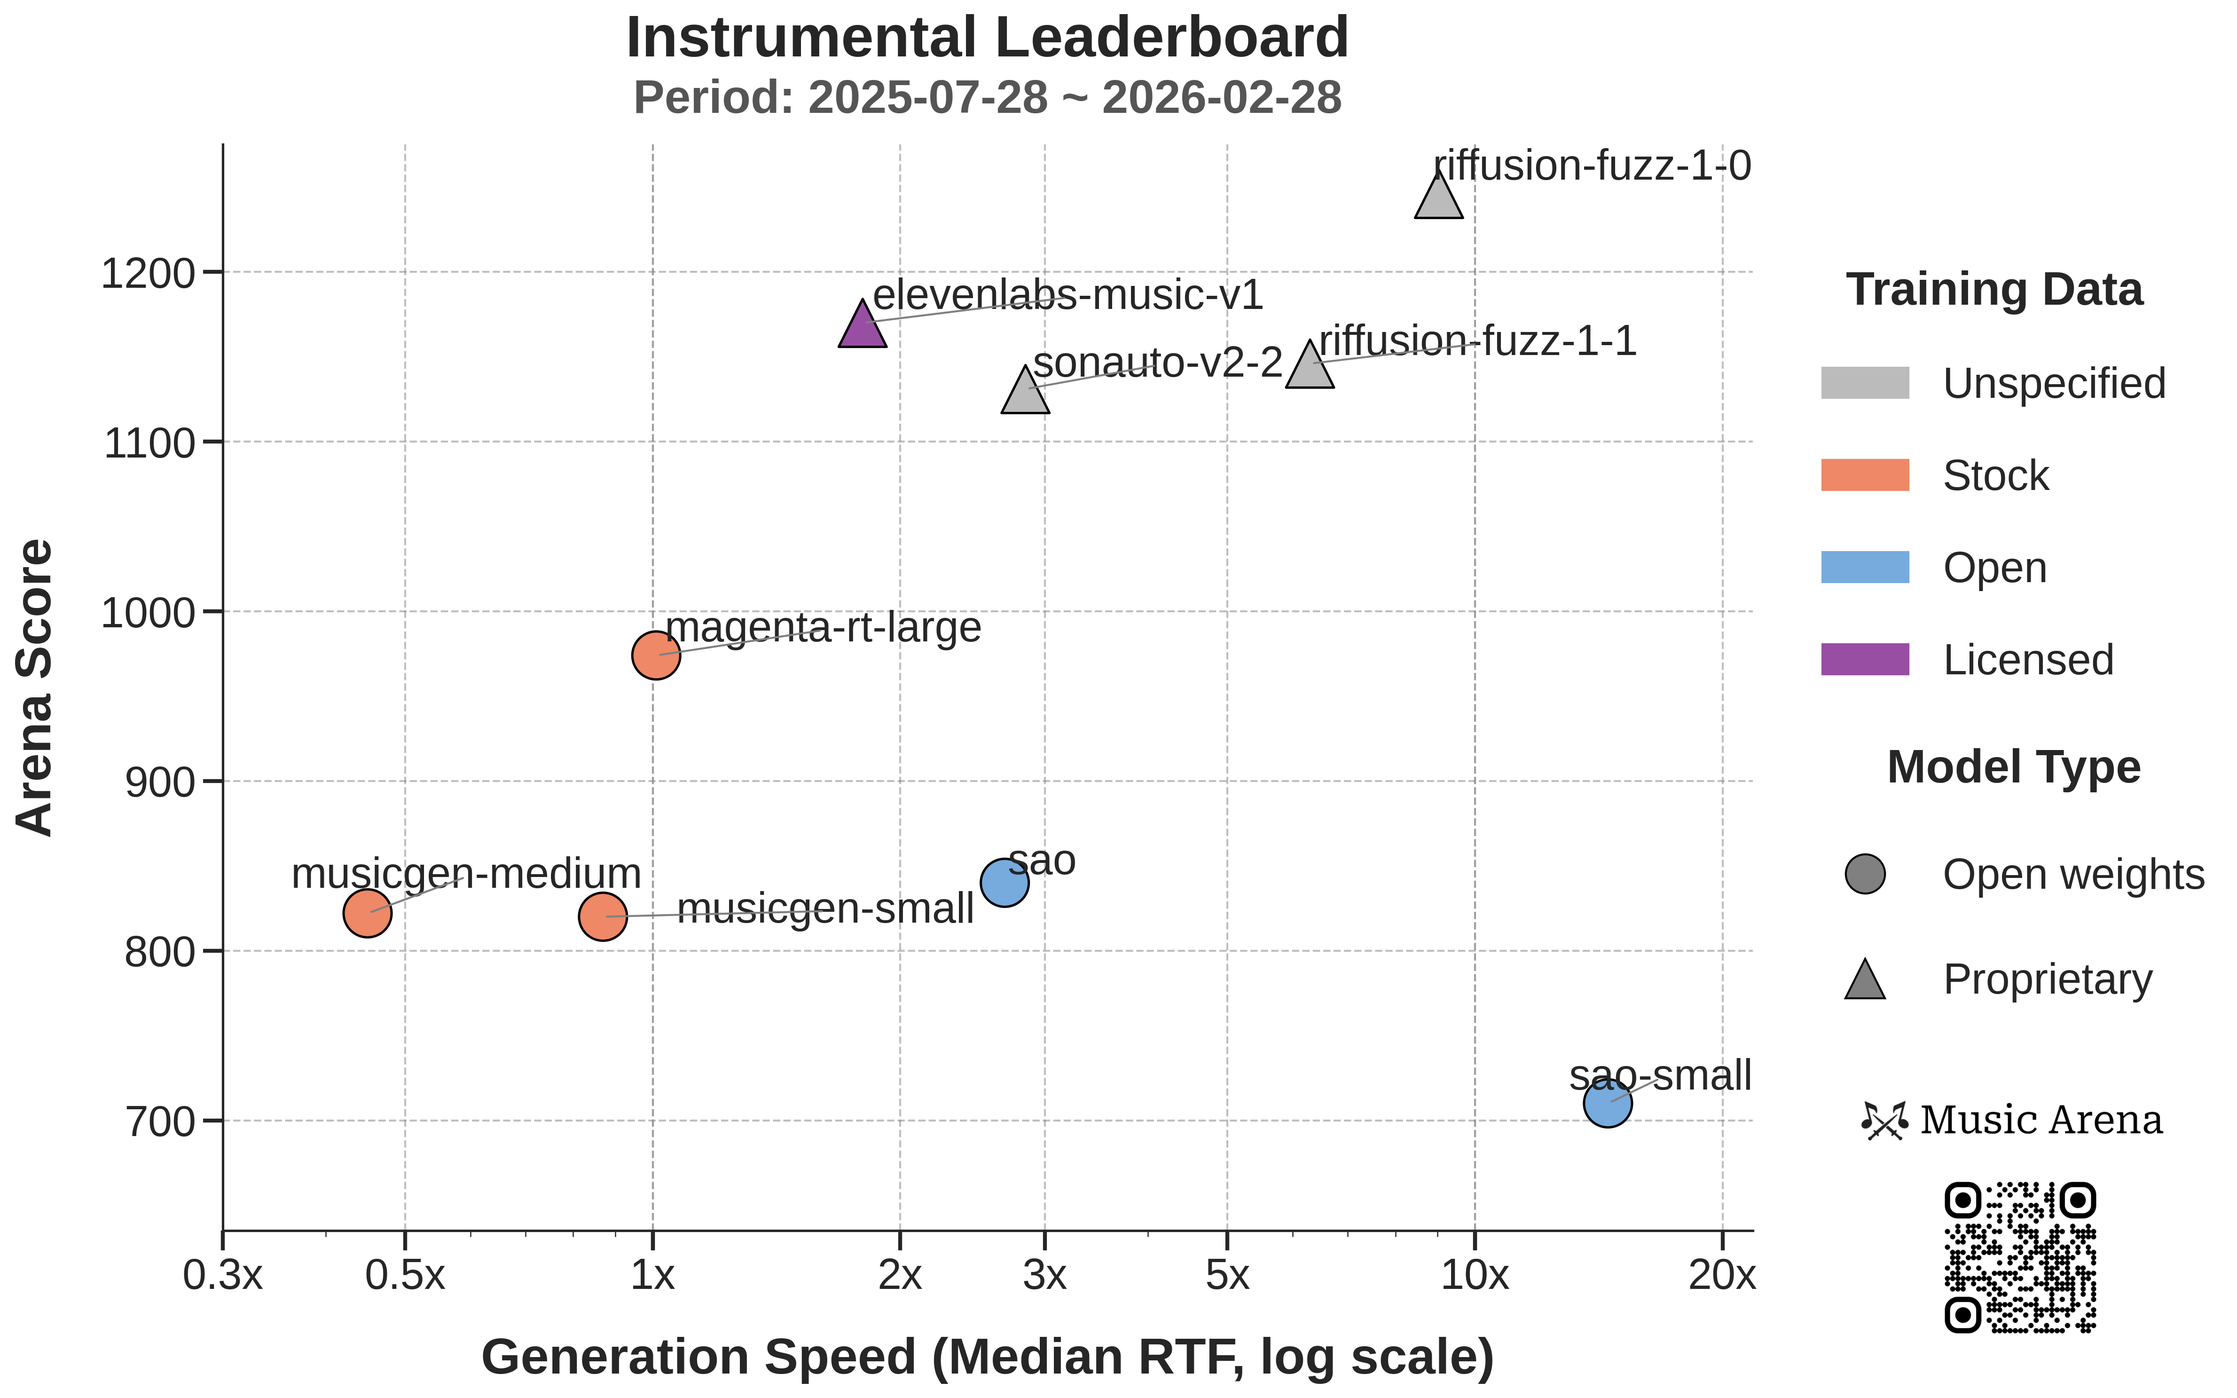
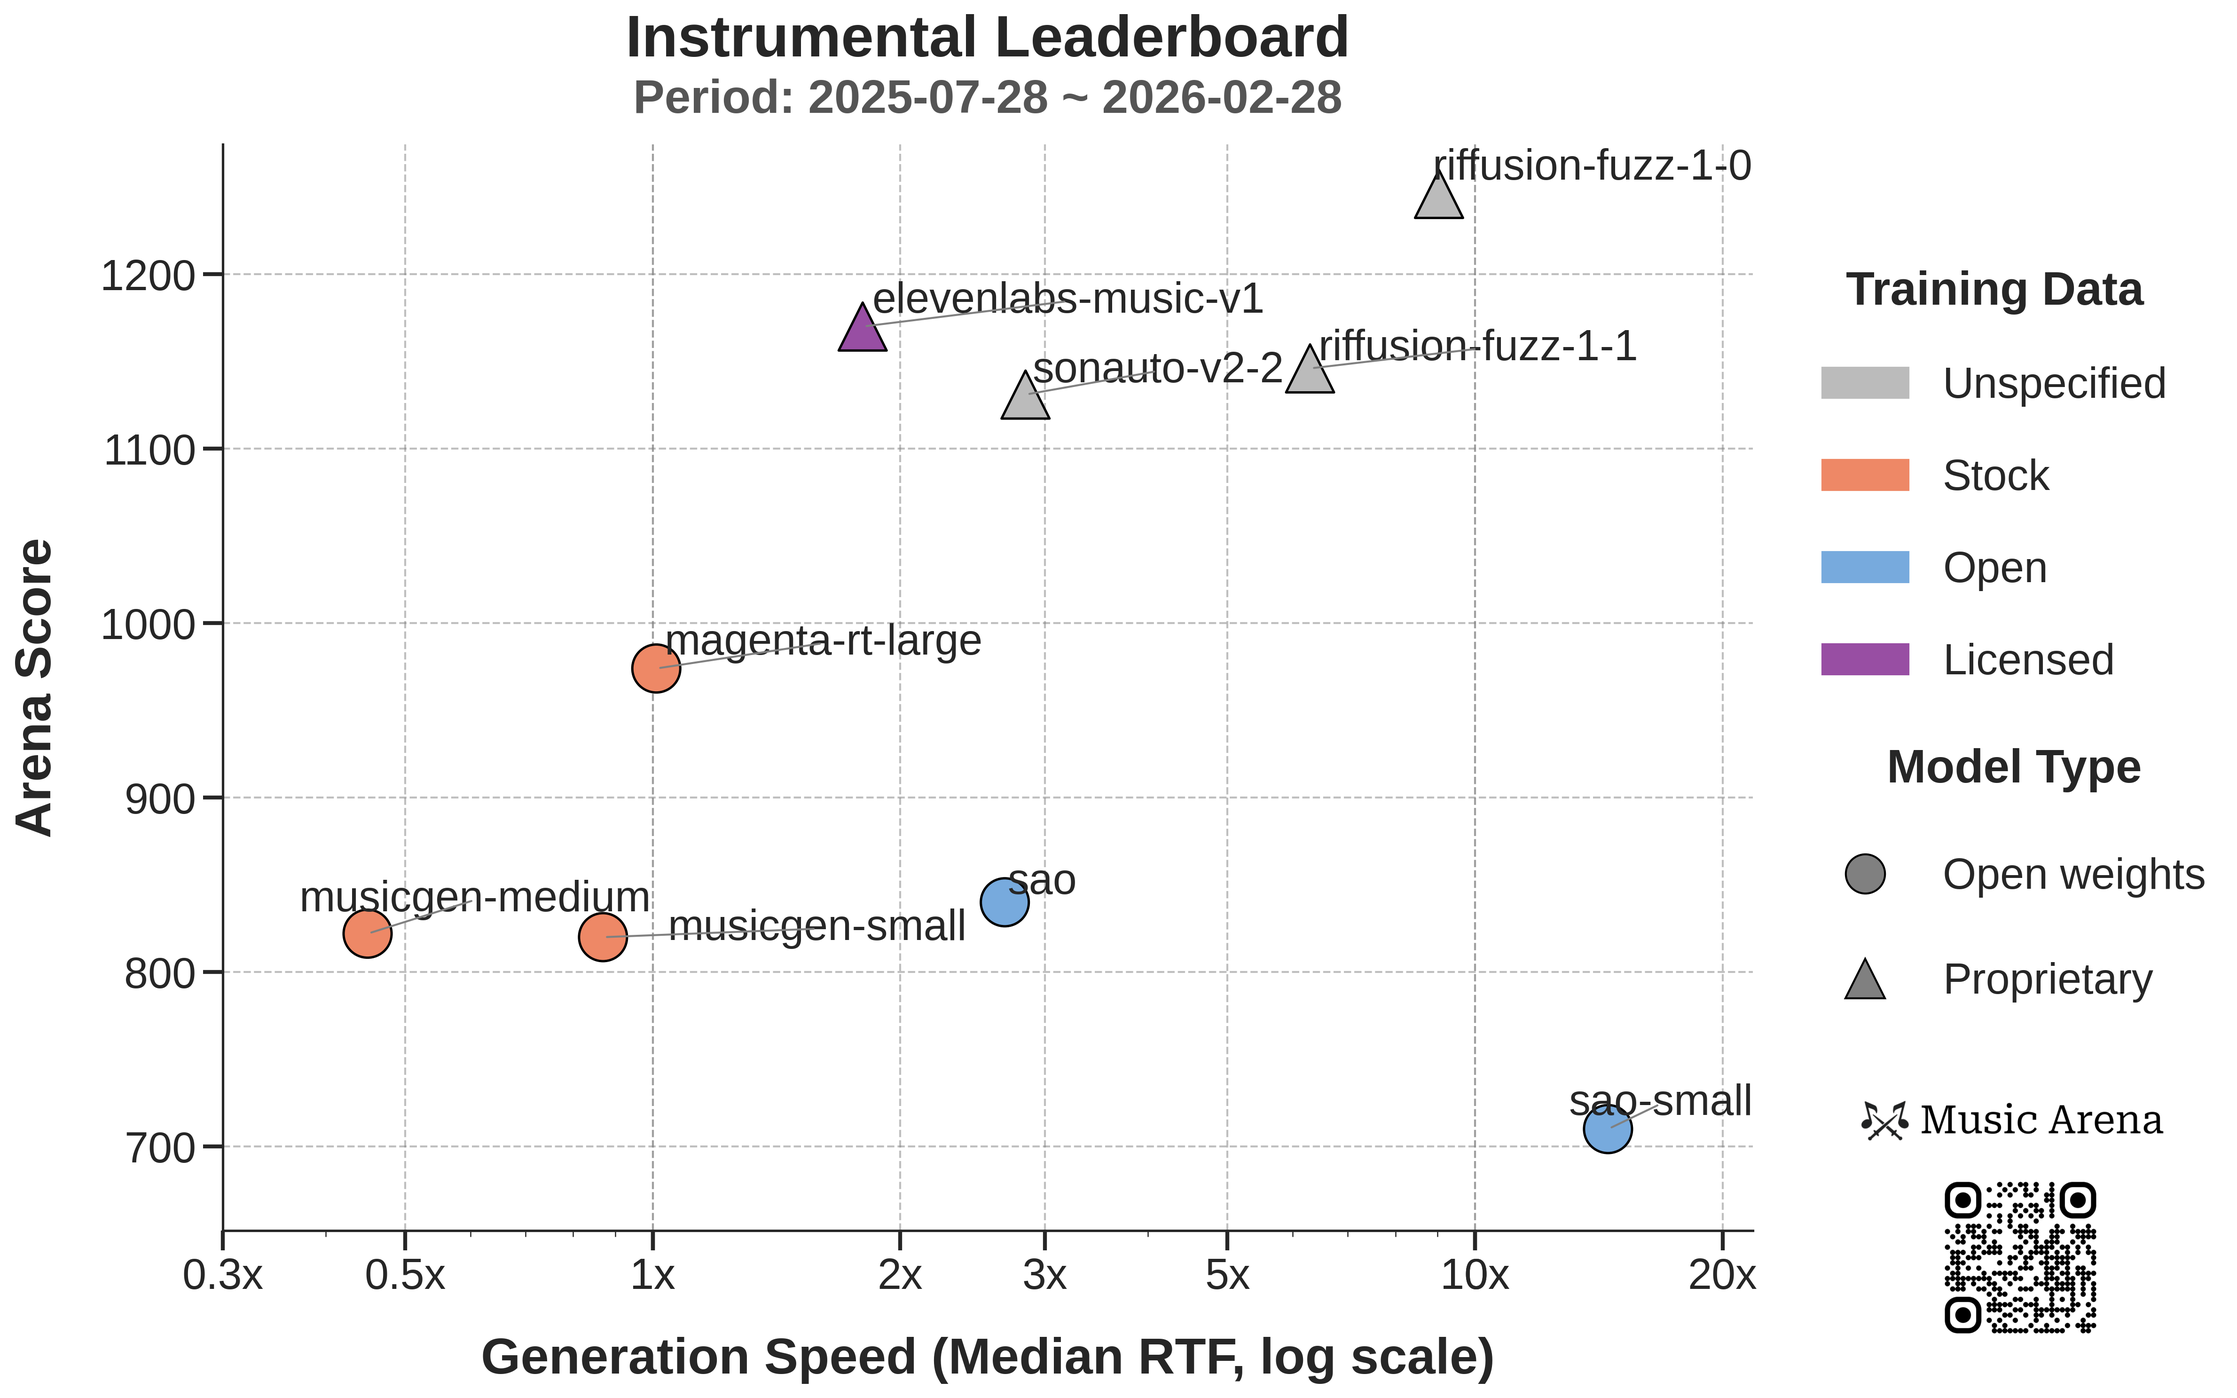
Address PR #77 feedback
- Move leaderboard pipeline docs to components/leaderboard/README.md
- Remove cross-dependency in frontend constants (hardcode methodology text)
- Exclude hidden models from leaderboard
- Remove _ADDITIONAL_MODELS (lyria-3-30s, sonauto-v3-preview now in registry)
- Regenerate leaderboard and plots

diff --git a/components/leaderboard/ma_leaderboard/config.py b/components/leaderboard/ma_leaderboard/config.py
@@ -38,9 +38,9 @@ HARDWARE_RTF_RATIOS = {
 # Model Metadata — loaded from systems/registry.yaml
 # =============================================================================
 
-# Models to exclude from leaderboard (test/utility/debug systems)
-# These are registered in registry.yaml but never ran in the arena,
-# or were only used briefly for debugging.
+# Models to exclude from leaderboard:
+# - test/utility systems that were never deployed
+# - older private testing models that should not be shown publicly
 _EXCLUDED_MODELS = {
     "noise",           # test system
     "audioldm2",       # registered but never deployed
@@ -49,6 +49,8 @@ _EXCLUDED_MODELS = {
     "songgen",         # registered but never deployed
     "musicgen-large",  # registered but never deployed
     "magenta-rt-base", # registered but never deployed
+    "preview-ocelot",  # private testing model
+    "preview-jerboa",  # private testing model
 }
 
 _ACCESS_MAP = {"OPEN": "Open weights", "PROPRIETARY": "Proprietary"}
@@ -56,7 +58,7 @@ _ACCESS_MAP = {"OPEN": "Open weights", "PROPRIETARY": "Proprietary"}
 _TRAINING_DATA_MAP = {
     "Stock": "Stock",
     "Creative Commons": "Open",
-    "Licensed Stock": "Licensed",
+    "Licensed": "Licensed",
     "Commercial": "Commercial",
 }
 
@@ -109,33 +111,4 @@ def _load_models_from_registry():
     return models
 
 
-# Models that exist in battle data but not in registry.yaml
-# (e.g., preview models, recently added models not yet in registry)
-_ADDITIONAL_MODELS = {
-    "preview-ocelot": {
-        "organization": "Hidden",
-        "training_data": "Unspecified",
-        "supports_lyrics": True,
-        "access": "Proprietary",
-    },
-    "preview-jerboa": {
-        "organization": "Hidden",
-        "training_data": "Unspecified",
-        "supports_lyrics": True,
-        "access": "Proprietary",
-    },
-    "lyria-3-30s": {
-        "organization": "Google DeepMind",
-        "training_data": "Unspecified",
-        "supports_lyrics": True,
-        "access": "Proprietary",
-    },
-    "sonauto-v3-preview": {
-        "organization": "Sonauto",
-        "training_data": "Unspecified",
-        "supports_lyrics": True,
-        "access": "Proprietary",
-    },
-}
-
-MODELS_METADATA = {**_load_models_from_registry(), **_ADDITIONAL_MODELS}
+MODELS_METADATA = _load_models_from_registry()

diff --git a/components/frontend/ma_frontend/constants.py b/components/frontend/ma_frontend/constants.py
@@ -215,29 +215,15 @@ The leaderboard is generated periodically from user votes. The data shown here i
 To ensure statistical reliability, only models with **30 or more votes** are included in the leaderboard. Models with fewer votes are excluded as their scores and confidence intervals are not yet stable.
 """.strip()
 
-def _build_methodology_md():
-    try:
-        from ma_leaderboard.config import HARDWARE_RTF_RATIOS, REFERENCE_HARDWARE
-        non_ref = {k: v for k, v in HARDWARE_RTF_RATIOS.items() if k != REFERENCE_HARDWARE}
-        if non_ref:
-            factors = ", ".join(f"{hw} = {ratio}x relative to {REFERENCE_HARDWARE}" for hw, ratio in non_ref.items())
-            hw_note = f"normalized to NVIDIA {REFERENCE_HARDWARE} (current factor: {factors})"
-        else:
-            hw_note = f"normalized to NVIDIA {REFERENCE_HARDWARE}"
-    except ImportError:
-        hw_note = "normalized to reference hardware"
-
-    return f"""
+SCORING_METHODOLOGY_MD = f"""
 **Arena Score** is computed using the [Bradley-Terry model](https://en.wikipedia.org/wiki/Bradley%E2%80%93Terry_model) — a pairwise comparison model fitted via L2-regularized logistic regression. Ties count as half-win / half-loss. Votes marked as "Both Bad" are excluded. 95% confidence intervals are estimated via bootstrap resampling (1,000 iterations). Only models with 30+ votes are shown.
 
 **Generation Speed (RTF)** measures how fast a model generates music relative to real time. An RTF of 5x means the model produces 5 seconds of audio per 1 second of compute — higher is faster. Values are the median across all battles, measured by total gateway time (user-perceived speed).
-- **Open-weights models** (running on our GPUs): {hw_note}.
+- **Open-weights models** (running on our GPUs): normalized to NVIDIA A6000.
 - **Proprietary models** (accessed via API): no normalization applied — RTF reflects actual end-to-end response time.
 
 [View the full scoring code on GitHub]({CODE_URL}/tree/main/components/leaderboard/ma_leaderboard/scoring.py)
 """.strip()
-
-SCORING_METHODOLOGY_MD = _build_methodology_md()
 
 TERMS_OF_SERVICE_MODAL_INSTRUCTIONS = f"""
 By clicking "{TOS_ACCEPT_BUTTON_LABEL}" below, you agree to the **terms of service** below.

diff --git a/README.md b/README.md
@@ -280,149 +280,14 @@ ma-chat lyrics --config 4o-v00 --prompt_path io/example.json
 
 ## Leaderboard
 
-The leaderboard is computed transparently from the public [Music Arena Dataset](https://huggingface.co/datasets/music-arena/music-arena-dataset) on HuggingFace. Anyone can reproduce the results.
-
-### Scoring Methodology
-
-- **Arena Score**: [Bradley-Terry model](https://en.wikipedia.org/wiki/Bradley%E2%80%93Terry_model) via L2-regularized logistic regression. Ties are split as half-win / half-loss for each side. Votes with `BOTH_BAD` preference are excluded.
-- **95% CI**: Bootstrap resampling (1,000 iterations)
-- **Generation Speed (RTF)**: Median Real-Time Factor (audio duration / generation time), normalized to A6000 GPU for open-weights models.
-- **Threshold**: Only models with 30+ votes are shown.
-
-For the full scoring implementation, see [`components/leaderboard/ma_leaderboard/scoring.py`](components/leaderboard/ma_leaderboard/scoring.py).
-
-### Setup
+The leaderboard is computed transparently from the public [Music Arena Dataset](https://huggingface.co/datasets/music-arena/music-arena-dataset) on HuggingFace. Anyone can reproduce the results:
 
 ```bash
-# Install the leaderboard component
 pip install -e components/leaderboard/
-
-# For GCP data download (maintainers only):
-pip install -e "components/leaderboard/[gcp]"
-```
-
-### Reproduce the Leaderboard (Anyone)
-
-The leaderboard can be reproduced by anyone from the public HuggingFace dataset — no credentials required:
-
-```bash
-# Generate leaderboard from public HuggingFace dataset
-ma-leaderboard leaderboard --output-dir results
-
-# View the generated files
-ls results/leaderboards/   # TSV tables
-ls results/plots/           # PNG scatter plots
-```
-
-### Monthly Data Pipeline (Maintainers)
-
-The full pipeline can be run with a single command:
-
-```bash
-bash components/leaderboard/ma_leaderboard/monthly_update.sh
-```
-
-This will download new data, preprocess, push to HuggingFace, generate the leaderboard, and update the frontend. See [Monthly Update Script](#monthly-update-script) below for details.
-
-Alternatively, each step can be run individually:
-
-**Step 1: Download new battle data from GCP**
-
-```bash
-# 1. Authenticate with GCP (one-time setup, no key files needed)
-gcloud auth application-default login
-
-# 2. Set bucket configuration (ask maintainers for values, never commit these)
-export MUSIC_ARENA_GCP_PROJECT_ID="<project-id>"
-export MUSIC_ARENA_METADATA_BUCKET="<metadata-bucket>"
-export MUSIC_ARENA_AUDIO_BUCKET="<audio-bucket>"
-
-# 3. Download new data (dates are auto-detected)
-ma-leaderboard download
-```
-
-> **Security**: GCP authentication uses `gcloud` CLI login — no key files are stored in the repo. The bucket names are passed via environment variables only. All credential-related patterns (`*credentials*`, `*service_account*`, `.env*`) are in `.gitignore`.
-
-- **Start date**: Auto-detected from existing data. If no data exists, defaults to 2025-07-28 (launch date).
-- **End date**: Auto-detected as end of previous month. Override with `--start` / `--end` if needed.
-- Only battles with valid models (in `MODELS_METADATA`) are downloaded. Test/unknown models are skipped.
-- Already downloaded files are automatically skipped (incremental).
-
-Downloaded files are stored in:
-```
-components/leaderboard/data/
-  logs/       # Raw JSON battle logs
-  audio/      # MP3 audio files
-```
-
-This directory is git-ignored and will not be committed.
-
-**Step 2: Preprocess into HuggingFace dataset format**
-
-```bash
-ma-leaderboard preprocess
-```
-
-Output is written to `components/leaderboard/data/dataset/`:
-```
-components/leaderboard/data/dataset/
-  battle_data/{month}/    # Simplified JSON per battle
-  audio_files/{month}/    # MP3 files (non-public models excluded)
-  metadata/{month}.md     # Period summary
-```
-
-**Step 3: Push to HuggingFace dataset**
-
-```bash
-cd <your-local-clone-of-music-arena-dataset>
-
-# Copy the new month's data into the dataset repo
-cp -r <music-arena>/components/leaderboard/data/dataset/battle_data/* battle_data/
-cp -r <music-arena>/components/leaderboard/data/dataset/audio_files/* audio_files/
-cp -r <music-arena>/components/leaderboard/data/dataset/metadata/* metadata/
-
-# Commit and push (audio files tracked via Git LFS)
-git add .
-git commit -m "Add February 2026 data"
-git push
-```
-
-**Step 3.5: Sanity check (optional but recommended)**
-
-```bash
-ma-leaderboard sanity-check
-```
-
-Compares local log count vs HuggingFace dataset count to verify the push was complete.
-
-**Step 4: Generate updated leaderboard**
-
-```bash
-# After HuggingFace processes the new data:
 ma-leaderboard leaderboard
 ```
 
-Results are written to `results/`:
-```
-results/
-  leaderboards/    # TSV tables (instrumental + vocal)
-  plots/           # PNG scatter plots
-```
-
-**Step 5: Update the website**
-
-```bash
-ma-leaderboard update-frontend
-# Creates components/frontend/ma_frontend/leaderboard/{YYYYMMDD}/
-# Commit and open a PR
-```
-
-Optionally, the monthly update script can be scheduled as a cron job (not enabled by default):
-
-```bash
-crontab -e
-0 0 1 * * /path/to/music-arena/components/leaderboard/ma_leaderboard/monthly_update.sh >> ~/monthly_update.log 2>&1
-```
+See [`components/leaderboard/README.md`](components/leaderboard/README.md) for the full pipeline documentation (scoring methodology, data pipeline, monthly updates).
 
 ## TODO
 

diff --git a/components/leaderboard/README.md b/components/leaderboard/README.md
@@ -1,0 +1,147 @@
+# Music Arena Leaderboard
+
+The leaderboard is computed transparently from the public [Music Arena Dataset](https://huggingface.co/datasets/music-arena/music-arena-dataset) on HuggingFace.
+
+## Scoring Methodology
+
+- **Arena Score**: [Bradley-Terry model](https://en.wikipedia.org/wiki/Bradley%E2%80%93Terry_model) via L2-regularized logistic regression. Ties are split as half-win / half-loss for each side. Votes with `BOTH_BAD` preference are excluded.
+- **95% CI**: Bootstrap resampling (1,000 iterations)
+- **Generation Speed (RTF)**: Median Real-Time Factor (audio duration / generation time), normalized to A6000 GPU for open-weights models.
+- **Threshold**: Only models with 30+ votes are shown.
+
+For the full scoring implementation, see [`ma_leaderboard/scoring.py`](ma_leaderboard/scoring.py).
+
+## Setup
+
+```bash
+# Install the leaderboard component
+pip install -e components/leaderboard/
+
+# For GCP data download (maintainers only):
+pip install -e "components/leaderboard/[gcp]"
+```
+
+## Reproduce the Leaderboard (Anyone)
+
+No credentials required — uses only public HuggingFace data:
+
+```bash
+# Generate leaderboard from public HuggingFace dataset
+ma-leaderboard leaderboard --output-dir results
+
+# View the generated files
+ls results/leaderboards/   # TSV tables
+ls results/plots/           # PNG scatter plots
+```
+
+## Monthly Data Pipeline (Maintainers)
+
+The full pipeline can be run with a single command:
+
+```bash
+bash components/leaderboard/ma_leaderboard/monthly_update.sh
+```
+
+This will download new data, preprocess, push to HuggingFace, generate the leaderboard, and update the frontend.
+
+Alternatively, each step can be run individually:
+
+### Step 1: Download new battle data from GCP
+
+```bash
+# 1. Authenticate with GCP (one-time setup, no key files needed)
+gcloud auth application-default login
+
+# 2. Set bucket configuration (ask maintainers for values, never commit these)
+export MUSIC_ARENA_GCP_PROJECT_ID="<project-id>"
+export MUSIC_ARENA_METADATA_BUCKET="<metadata-bucket>"
+export MUSIC_ARENA_AUDIO_BUCKET="<audio-bucket>"
+
+# 3. Download new data (dates are auto-detected)
+ma-leaderboard download
+```
+
+> **Security**: GCP authentication uses `gcloud` CLI login — no key files are stored in the repo. The bucket names are passed via environment variables only. All credential-related patterns (`*credentials*`, `*service_account*`, `.env*`) are in `.gitignore`.
+
+- **Start date**: Auto-detected from existing data. If no data exists, defaults to 2025-07-28 (launch date).
+- **End date**: Auto-detected as end of previous month. Override with `--start` / `--end` if needed.
+- Only battles with valid models (in `MODELS_METADATA`) are downloaded. Test/unknown models are skipped.
+- Already downloaded files are automatically skipped (incremental).
+
+Downloaded files are stored in:
+```
+components/leaderboard/data/
+  logs/       # Raw JSON battle logs
+  audio/      # MP3 audio files
+```
+
+This directory is git-ignored and will not be committed.
+
+### Step 2: Preprocess into HuggingFace dataset format
+
+```bash
+ma-leaderboard preprocess
+```
+
+Output is written to `components/leaderboard/data/dataset/`:
+```
+components/leaderboard/data/dataset/
+  battle_data/{month}/    # Simplified JSON per battle
+  audio_files/{month}/    # MP3 files (non-public models excluded)
+  metadata/{month}.md     # Period summary
+```
+
+### Step 3: Push to HuggingFace dataset
+
+```bash
+cd <your-local-clone-of-music-arena-dataset>
+
+# Copy the new month's data into the dataset repo
+cp -r <music-arena>/components/leaderboard/data/dataset/battle_data/* battle_data/
+cp -r <music-arena>/components/leaderboard/data/dataset/audio_files/* audio_files/
+cp -r <music-arena>/components/leaderboard/data/dataset/metadata/* metadata/
+
+# Commit and push (audio files tracked via Git LFS)
+git add .
+git commit -m "Add February 2026 data"
+git push
+```
+
+### Step 3.5: Sanity check (optional but recommended)
+
+```bash
+ma-leaderboard sanity-check
+```
+
+Compares local log count vs HuggingFace dataset count to verify the push was complete.
+
+### Step 4: Generate updated leaderboard
+
+```bash
+# After HuggingFace processes the new data:
+ma-leaderboard leaderboard
+```
+
+Results are written to `results/`:
+```
+results/
+  leaderboards/    # TSV tables (instrumental + vocal)
+  plots/           # PNG scatter plots
+```
+
+### Step 5: Update the website
+
+```bash
+ma-leaderboard update-frontend
+# Creates components/frontend/ma_frontend/leaderboard/{YYYYMMDD}/
+# Commit and open a PR
+```
+
+### Optional: Cron job
+
+The monthly update script can be scheduled as a cron job (not enabled by default):
+
+```bash
+crontab -e
+0 0 1 * * /path/to/music-arena/components/leaderboard/ma_leaderboard/monthly_update.sh >> ~/monthly_update.log 2>&1
+```
